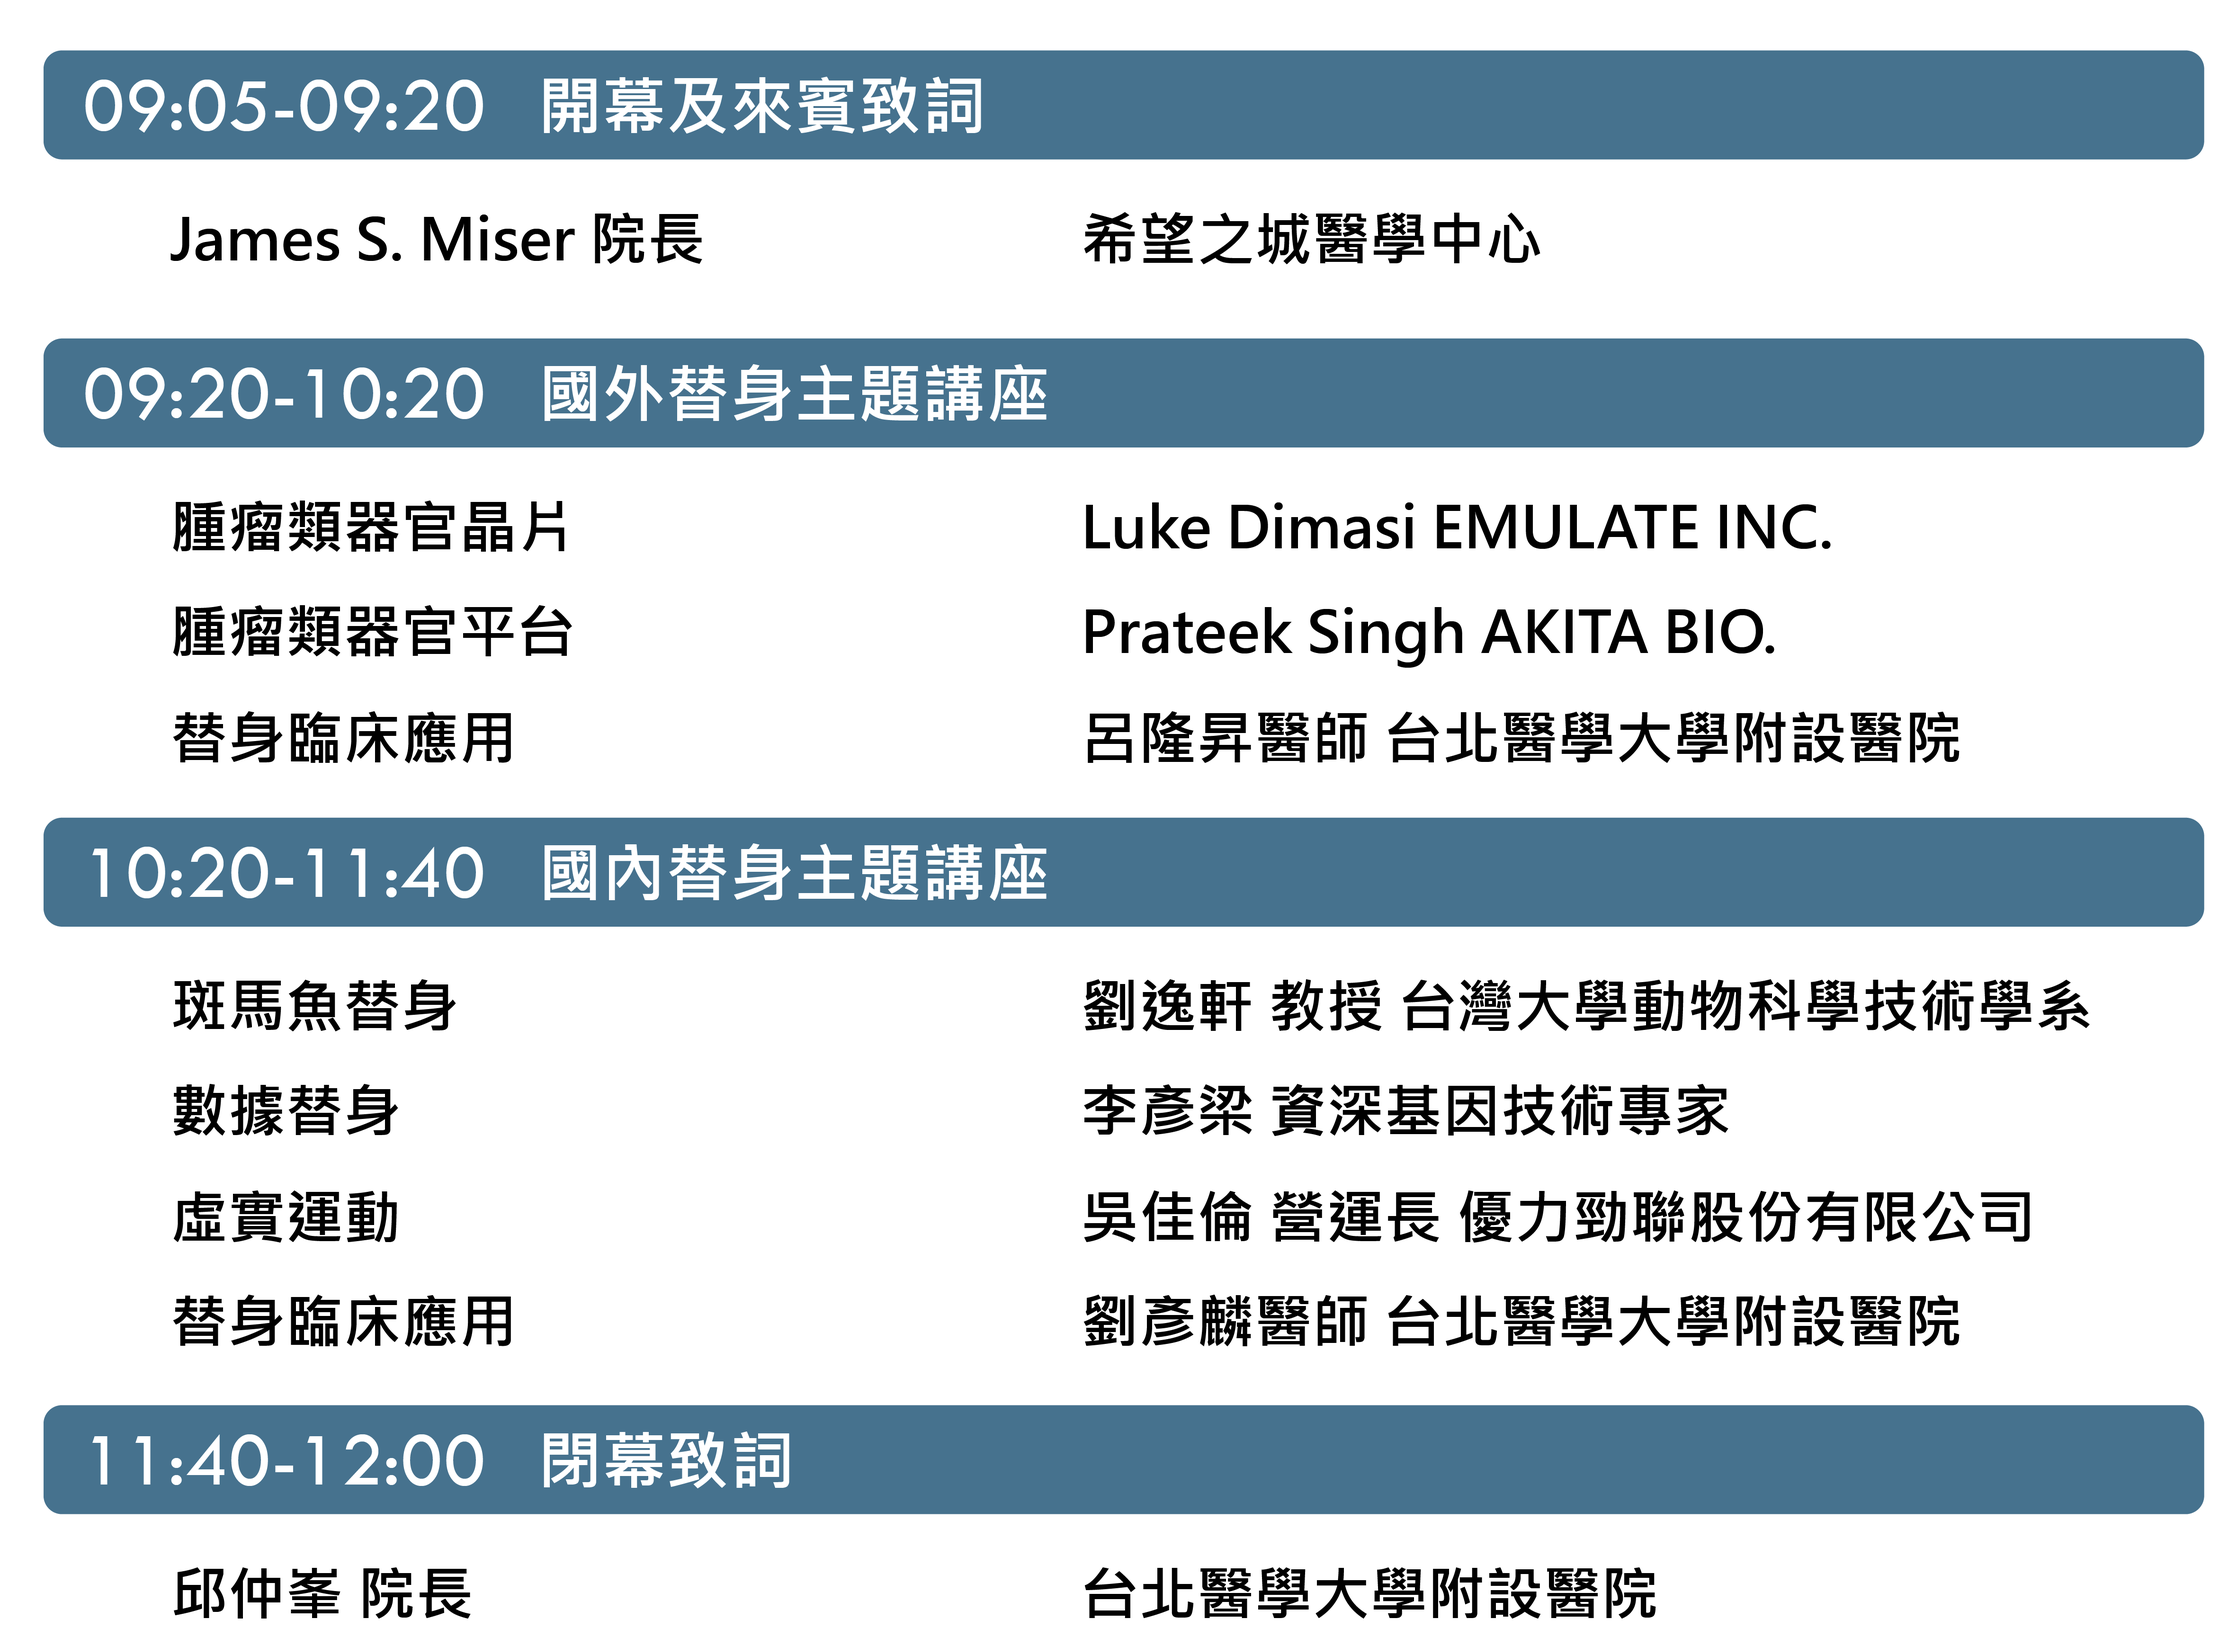
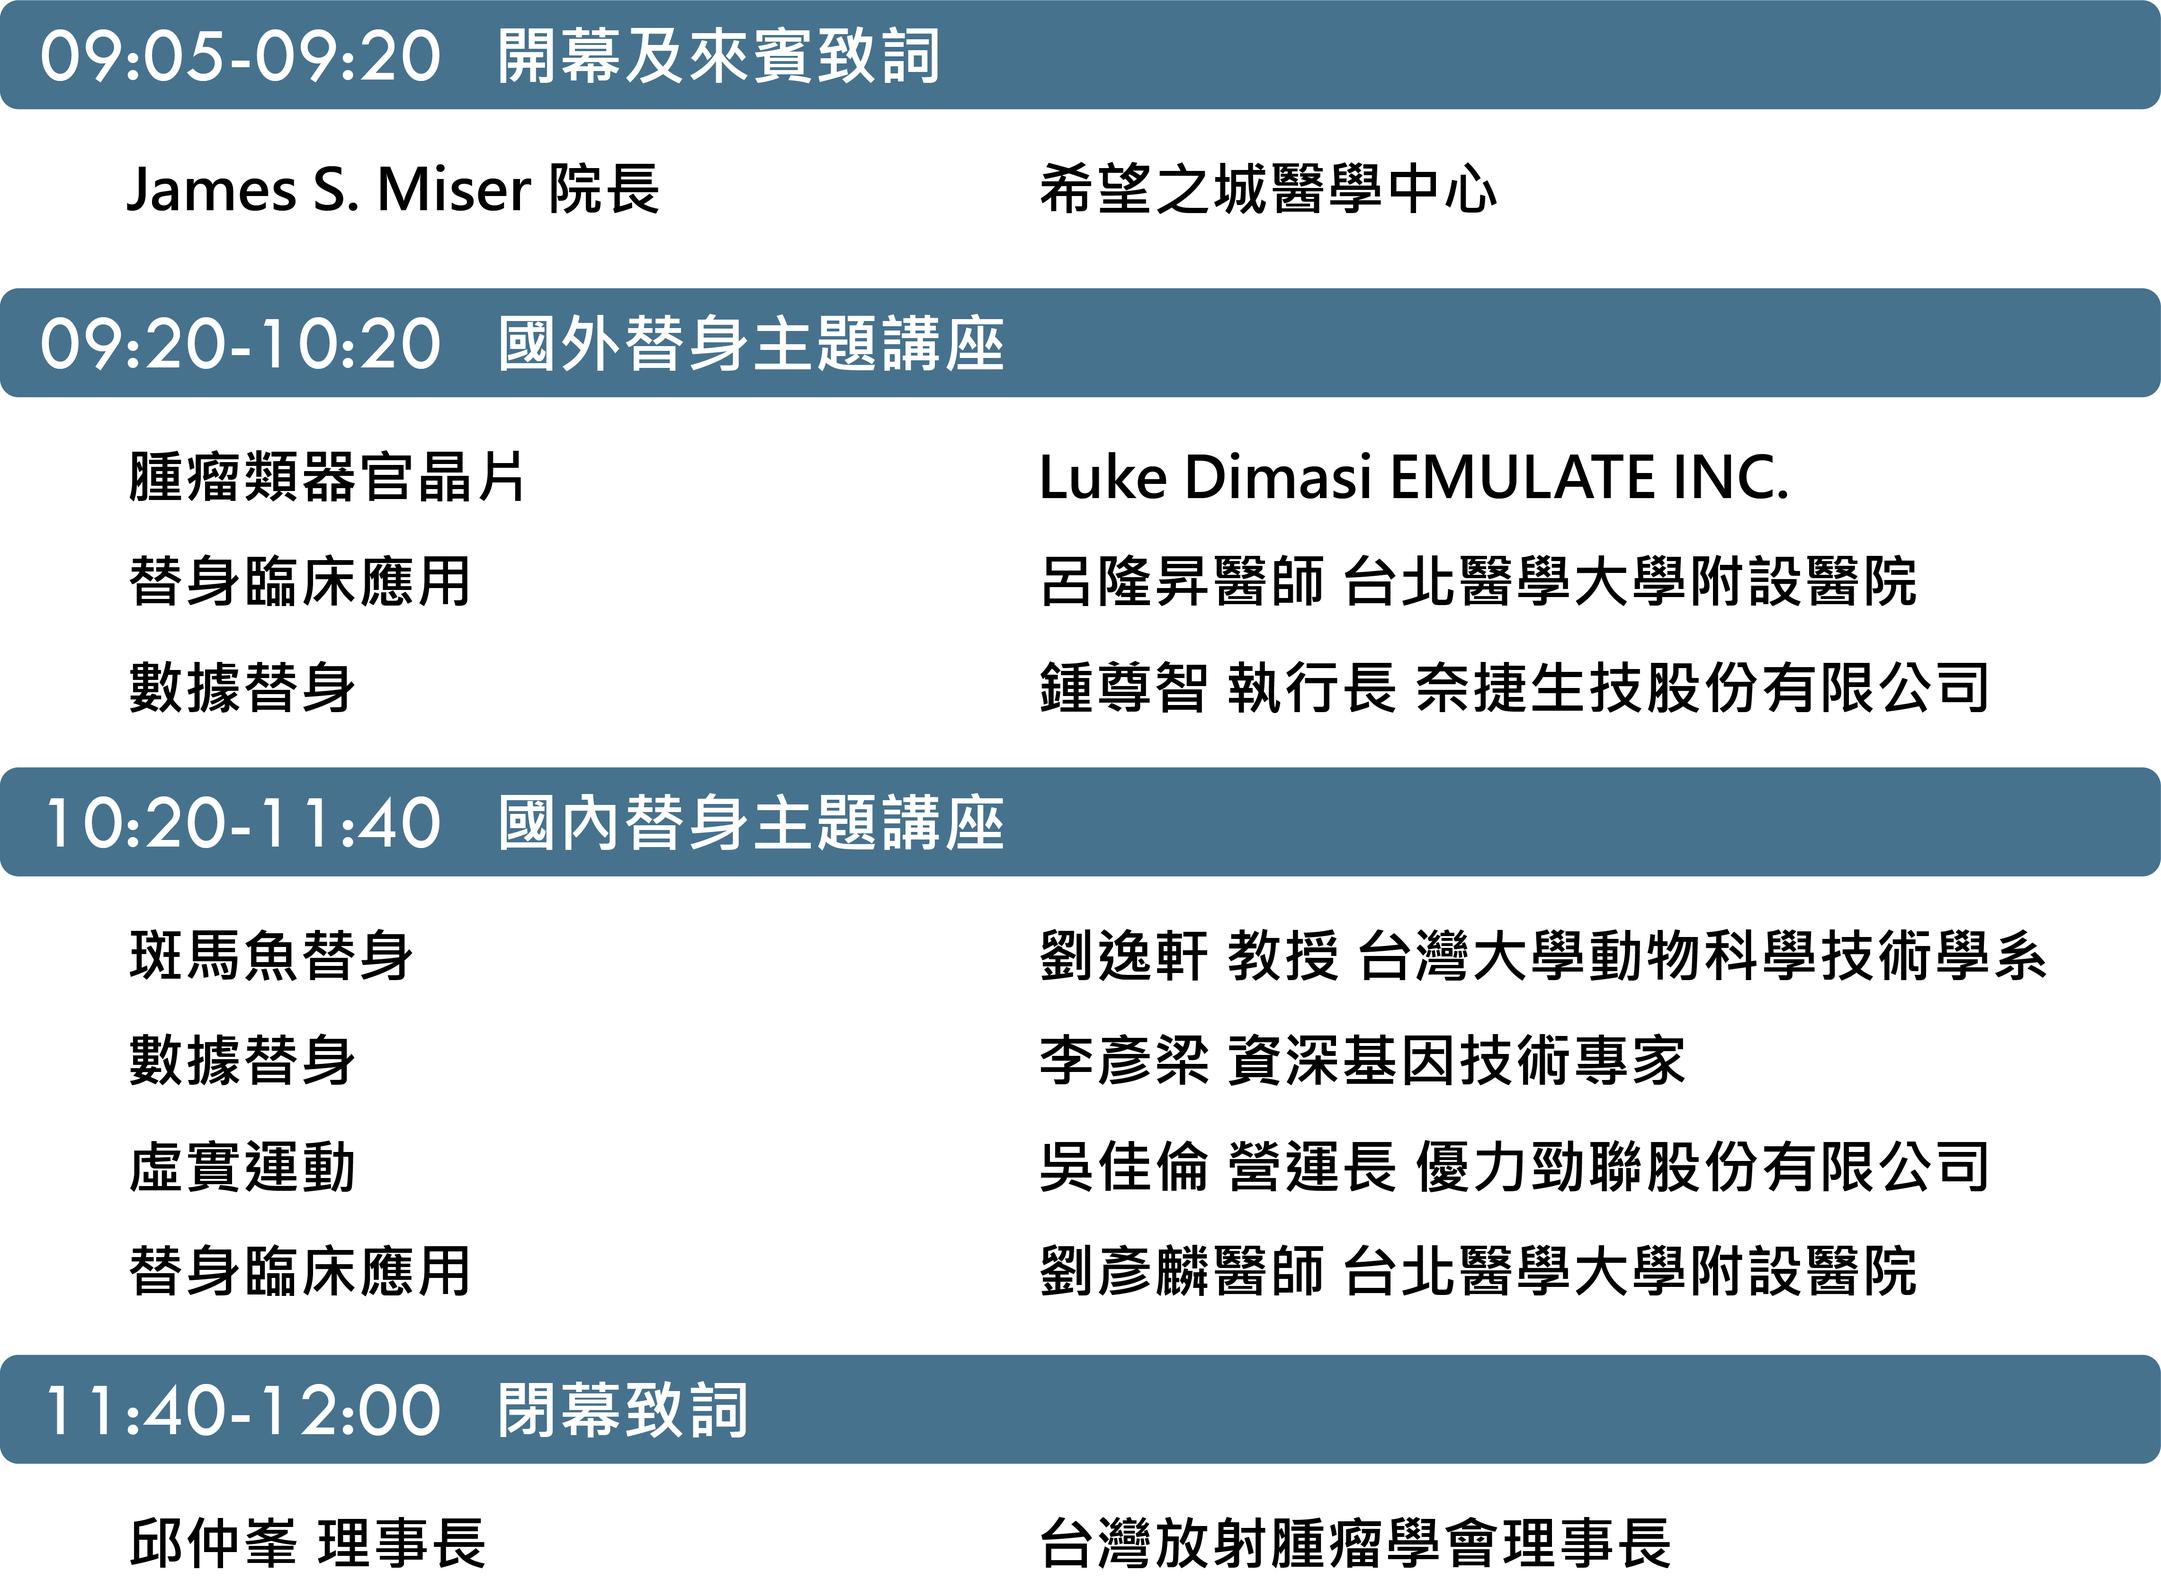
update tony

diff --git a/ForumEN.html b/ForumEN.html
@@ -139,17 +139,20 @@
             <!--1-->
             <div class="vip_intro normal-direction">
                 <div class="vip_photo">
-                    <img src="./images/head.jpg" alt="VIP Photo">
+                    <img src="./2023_images/GCG.jpg" alt="VIP Photo">
                 </div>
                 <div class="vip_margin">
-                    <div class="vip_name">Prateek Singh</div>
-                    <div class="vip_title">CEO,AKITA BIO </div>
+                    <div class="vip_name">Tony Chung</div>
+                    <div class="vip_title">CEO ,Instant NanoBiosensors Co., Ltd.</div>
                     <div class="vip_description">
-                        Prateek Singh is professional in microfuidic devices for 3D
-                        microtissue culture.He founded AKITA BIO three years ago out
-                        of a realization that current lab practices do not produce
-                        accurate and reliable results. AKITA was born - To give better
-                        tools for researchers and developers and better chances to succeed.
+                        Tony Chung is the CEO of Instant NanoBiosensors Co., Ltd., with extensive experience in the
+                        field of biotechnology. He entered the industry in 2002 and held key positions in several
+                        renowned companies, including Genetech biotech Co., Ltd in Taiwan, which represents Illumina. He
+                        is also a co-founder of Instant NanoBiosensors Co., Ltd. In 2020, he became a strategic partner
+                        of Merck KGaA.
+                        Mr. Tony Chung, with his outstanding leadership style and unwavering spirit of innovation,
+                        propels Instant NanoBiosensors Co., Ltd. forward, dedicating himself to the enhancement of the
+                        biotechnology industry.
                     </div>
                 </div>
             </div>

diff --git a/index.html b/index.html
@@ -130,15 +130,16 @@
             <!--1-->
             <div class="vip_intro normal-direction">
                 <div class="vip_photo">
-                    <img src="./images/head.jpg" alt="VIP Photo">
+                    <img src="./2023_images/GCG.jpg" alt="VIP Photo">
                 </div>
                 <div class="vip_margin">
-                    <div class="vip_name">Prateek Singh</div>
-                    <div class="vip_title">AKITA BIO執行長</div>
+                    <div class="vip_name">鍾尊智</div>
+                    <div class="vip_title">奈捷生物科技執行長</div>
                     <div class="vip_description">
-                        Prateek Singh 是微流體裝置及三維組織培養領域的專家。三年前，他創辦了AKITA BIO，
-                        因為他意識到當前的實驗室實踐無法產生準確可靠的結果。
-                        AKITA 誕生了 - 為研究人員和開發人員提供更好的工具以及更好的成功機會。
+                        鍾尊智先生是奈捷生物科技的執行長，具備豐富的生物科技經驗。他於2002年進入行業，曾在多家知名公司
+                        擔任關鍵職位，包括Illumina在台灣的Genetech biotech Co., Ltd。他也是Instant NanoBiosensors
+                        Co., Ltd.的共同創始人，並在2020年成為Merck KGaA的戰略合作夥伴。
+                        鍾尊智先生以卓越的領導風格和不懈的創新精神，推動著奈捷生物科技不斷前進，並致力於改善生物科技行業。
                     </div>
                 </div>
             </div>
@@ -234,8 +235,6 @@
                     </div>
                 </div>
             </div>
-
-
 
 
         </div>
